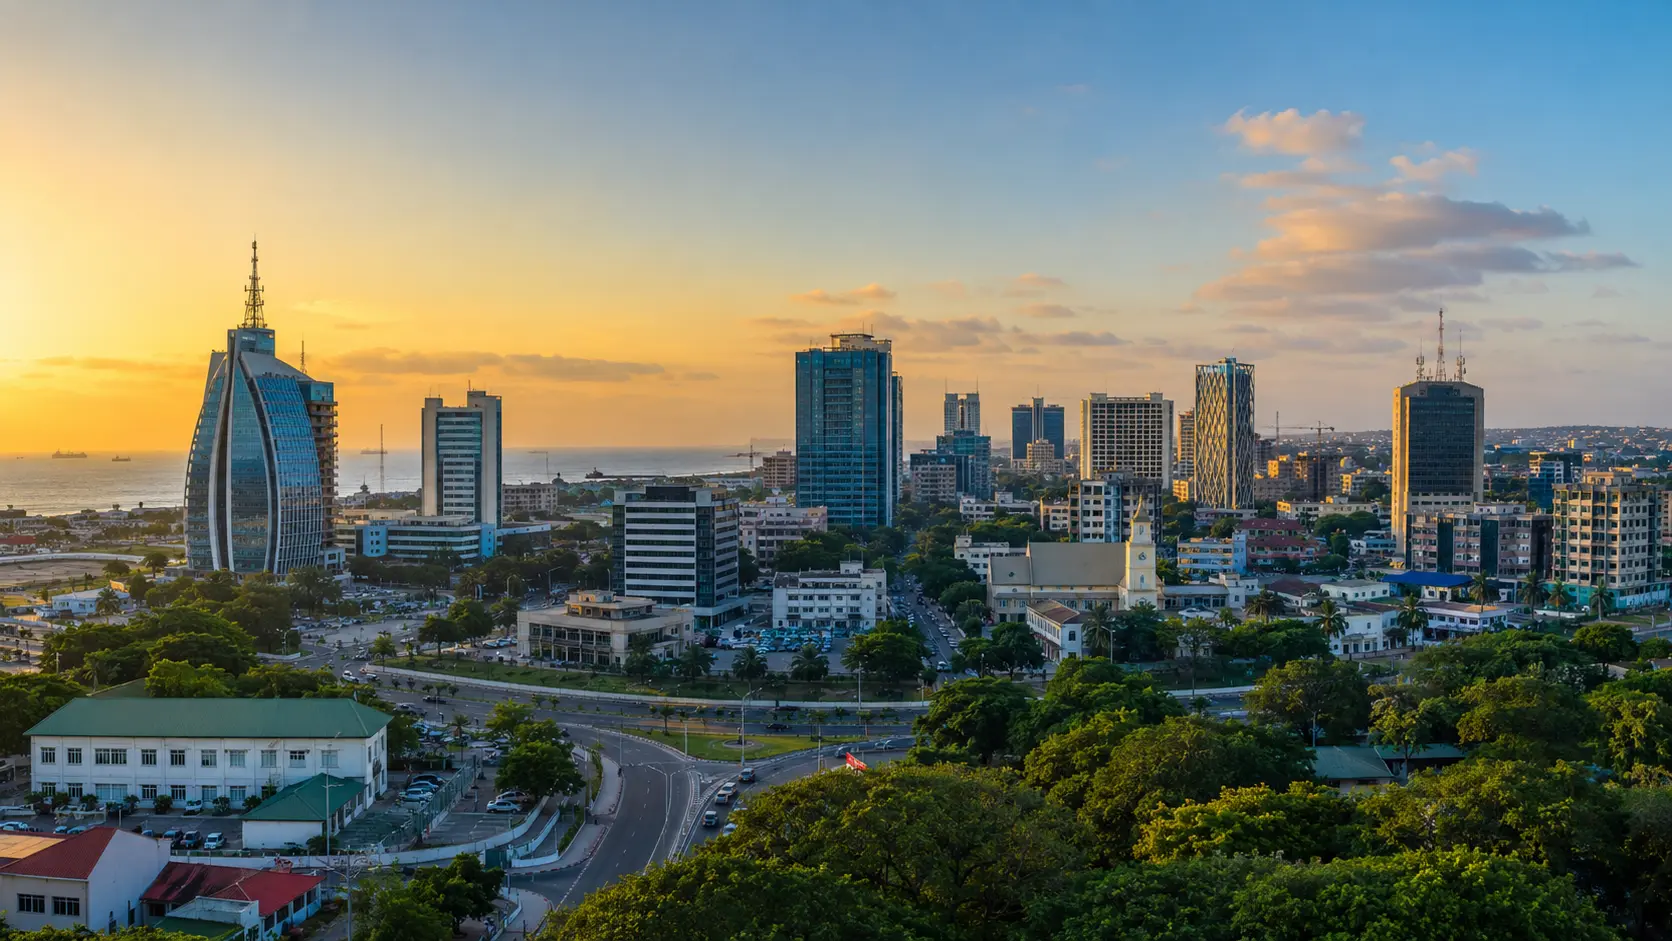
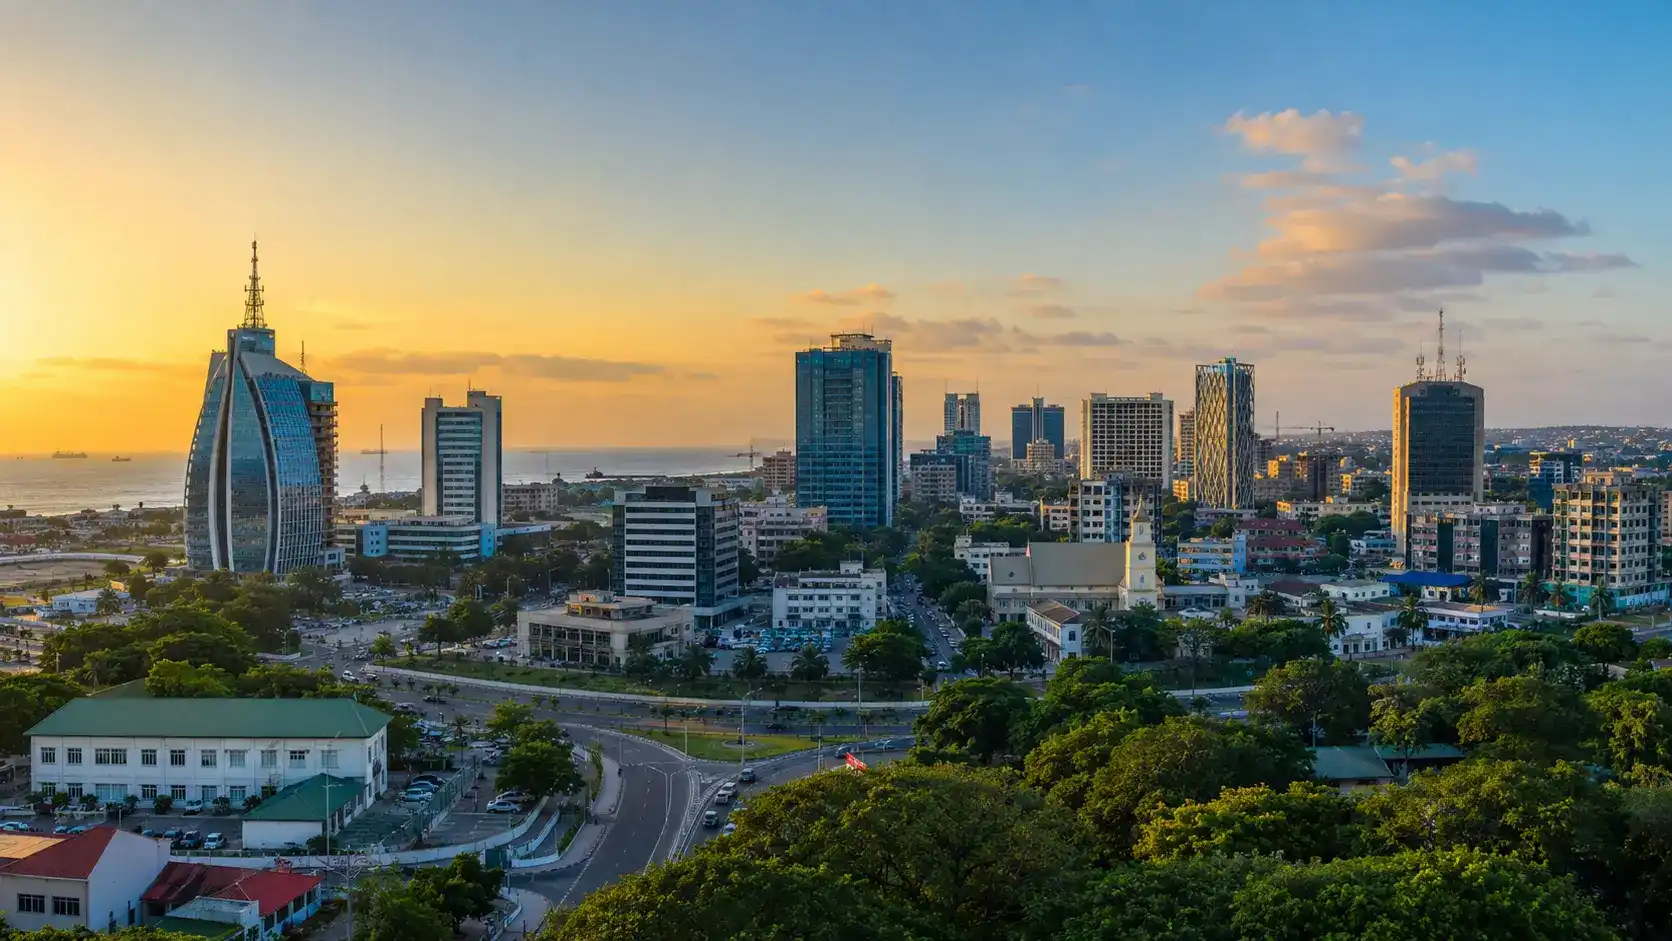
Update directory link in header, enhance hero title styling, and improve accessibility attributes

diff --git a/chamber/index.html b/chamber/index.html
@@ -97,7 +97,7 @@
            fetchpriority="high">
       <div class="hero-overlay" aria-hidden="true"></div>
       <div class="hero-content">
-        <h1>Where Accra's<br>Business Community Thrives</h1>
+        <h1 class="hero-title">Where Accra's<br>Business Community Thrives</h1>
         <p>Join hundreds of local businesses driving economic growth, building connections, and shaping the future of Accra.</p>
         <a href="join.html" class="cta-btn">
           <svg viewBox="0 0 24 24" width="18" height="18" fill="currentColor" aria-hidden="true">
@@ -113,16 +113,17 @@
        MAIN CONTENT
   ====================================================== -->
   <main>
+    
     <div class="home-main">
 
       <!-- ── Current Events ──────────────────────────────── -->
       <section class="home-section-events" aria-label="Current events">
-        <h2 class="section-title">
+        <h1 class="section-title">
           <svg viewBox="0 0 24 24" aria-hidden="true">
             <path d="M17 12h-5v5h5v-5zM16 1v2H8V1H6v2H5c-1.11 0-1.99.9-1.99 2L3 19c0 1.1.89 2 2 2h14c1.1 0 2-.9 2-2V5c0-1.1-.9-2-2-2h-1V1h-2zm3 18H5V8h14v11z"/>
           </svg>
           Current Events
-        </h2>
+        </h1>
         <div class="events-list">
 
           <article class="event-card">
@@ -174,7 +175,6 @@
             <div class="weather-main">
               <img id="weather-icon"
                    class="weather-icon"
-                   src=""
                    alt="Weather icon"
                    width="64"
                    height="64"
@@ -188,7 +188,7 @@
               <span id="weather-wind" class="weather-meta">Wind: -- km/h</span>
             </div>
           </div>
-          <div id="weather-forecast" class="weather-forecast" aria-label="3-day forecast">
+          <div id="weather-forecast" class="weather-forecast" role="group" aria-label="3-day forecast">
             <!-- Populated by weather.js -->
           </div>
         </div>
@@ -202,7 +202,7 @@
           </svg>
           Member Spotlights
         </h2>
-        <div id="spotlight-grid" aria-live="polite" aria-label="Featured members">
+        <div id="spotlight-grid" role="group" aria-live="polite" aria-label="Featured members">
           <!-- Populated by spotlights.js -->
         </div>
       </section>

diff --git a/chamber/styles/home.css b/chamber/styles/home.css
@@ -1,7 +1,3 @@
-/* ============================================================
-   home.css — styles specific to chamber/index.html only.
-   Shared tokens, header, footer, nav all come from small.css.
-   ============================================================ */
 
 /* ============================================================
    Hero
@@ -40,7 +36,7 @@
   max-width: 640px;
 }
 
-.hero-content h1 {
+.hero-title {
   font-size: var(--fs-2xl);
   font-weight: 800;
   color: var(--color-white);
@@ -277,7 +273,7 @@
    Responsive — Tablet 640px+
    ============================================================ */
 @media screen and (min-width: 640px) {
-  .hero-content h1 {
+  .hero-title {
     font-size: 2.5rem;
   }
 
@@ -298,7 +294,7 @@
     padding: var(--space-12) var(--space-10);
   }
 
-  .hero-content h1 {
+  .hero-title {
     font-size: 3rem;
   }
 

diff --git a/chamber/directory.html b/chamber/directory.html
@@ -35,7 +35,7 @@
        HEADER
   ====================================================== -->
   <header class="site-header">
-    <a href="directory.html" class="site-logo" aria-label="Accra Chamber of Commerce home">
+    <a href="index.html" class="site-logo" aria-label="Accra Chamber of Commerce home">
       <div class="logo-icon" aria-hidden="true">
         <svg viewBox="0 0 24 24">
           <path d="M12 7V3H2v18h20V7H12zM6 19H4v-2h2v2zm0-4H4v-2h2v2zm0-4H4V9h2v2zm0-4H4V5h2v2zm4 12H8v-2h2v2zm0-4H8v-2h2v2zm0-4H8V9h2v2zm0-4H8V5h2v2zm10 12h-8v-2h2v-2h-2v-2h2v-2h-2V9h8v10zm-2-8h-2v2h2v-2zm0 4h-2v2h2v-2z"/>